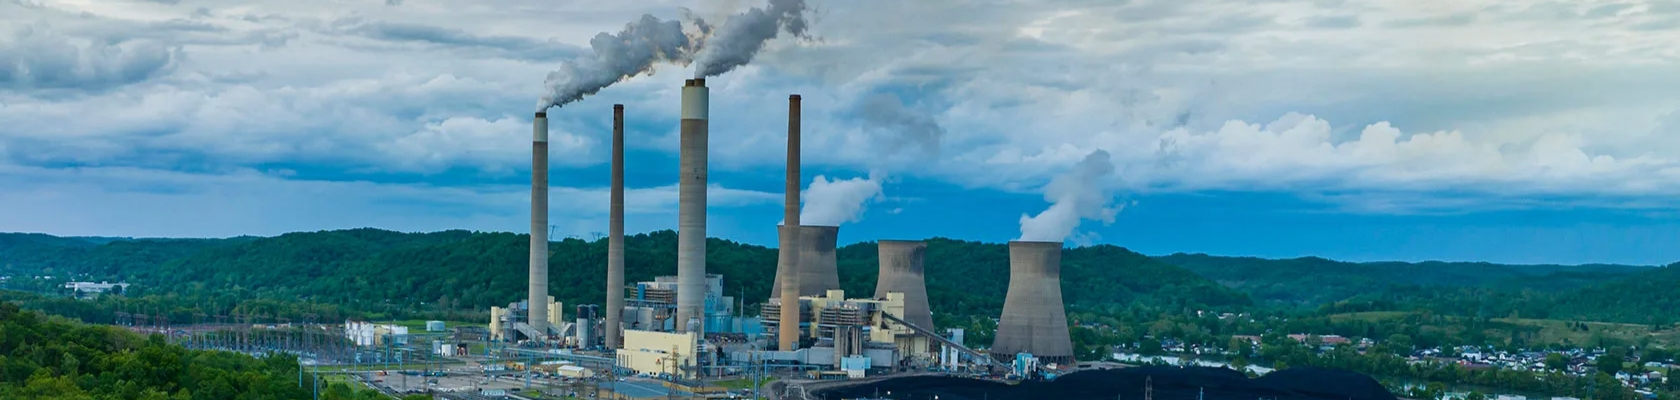
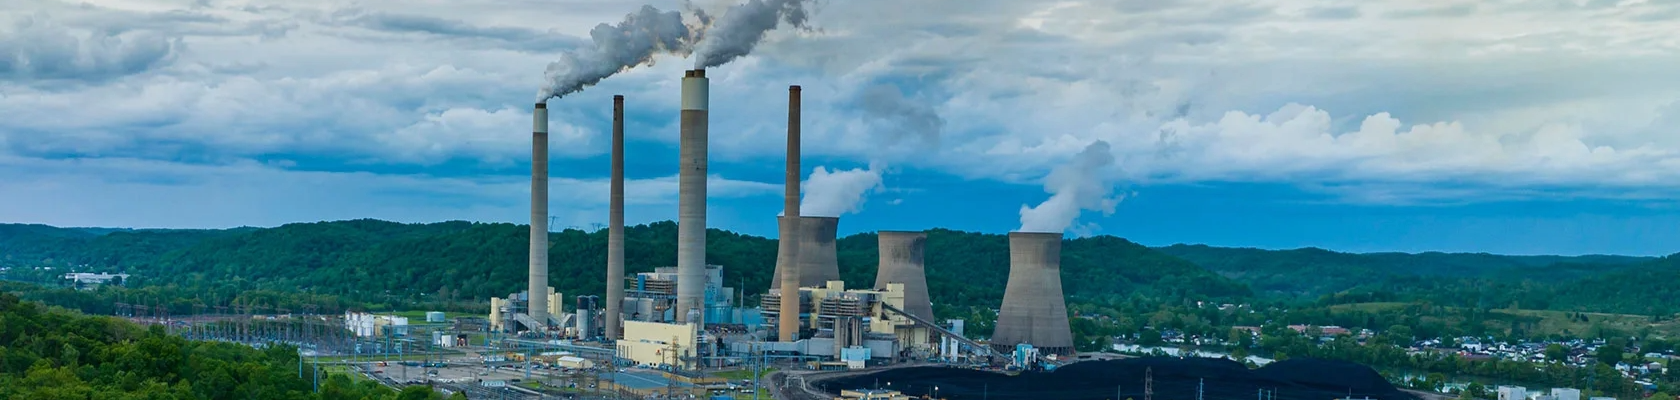
Update index.html

diff --git a/data/templates/index.html b/data/templates/index.html
@@ -52,8 +52,8 @@
     }
     .map-image {
       width: 100%;
-      height: auto; /* Maintain aspect ratio */
-      display: block;
+      height: 100%;
+      object-fit: cover;
     }
     th, td {
       padding: 0.75rem;
@@ -116,9 +116,9 @@
           Our code is open source. The archived data and code can be found at 
           <a href="https://github.com/willf/datasette-campd" class="text-accent hover:text-primary">EDGI GitHub</a>. 
           Explore the data interactively at 
-          <a href="https://lite.datasette.io/" class="text-accent hover:text-primary">Datasette</a> or access the original data at 
+          <a href="https://datasette.io/" class="text-accent hover:text-primary">Datasette</a> or access the original data at 
           <a href="{{ metadata.source_url | default('https://campd.epa.gov/') }}" class="text-accent hover:text-primary">{{ metadata.source | default("EPA CAMPD") }}</a> and 
-          <a href="https://zenodo.org/records/15047617" class="text-accent hover:text-primary">Zenodo</a>.
+          <a href="https://zenodo.org/communities/edgi/records?q=campd&l=list&p=1&s=10&sort=bestmatch" class="text-accent hover:text-primary">Zenodo</a>.
         </p>
         <p class="text-text">
           Contact us at <a href="mailto:campd-support@camdsupport.com" class="text-accent hover:text-primary">contact@envirodatagov.org</a> 
